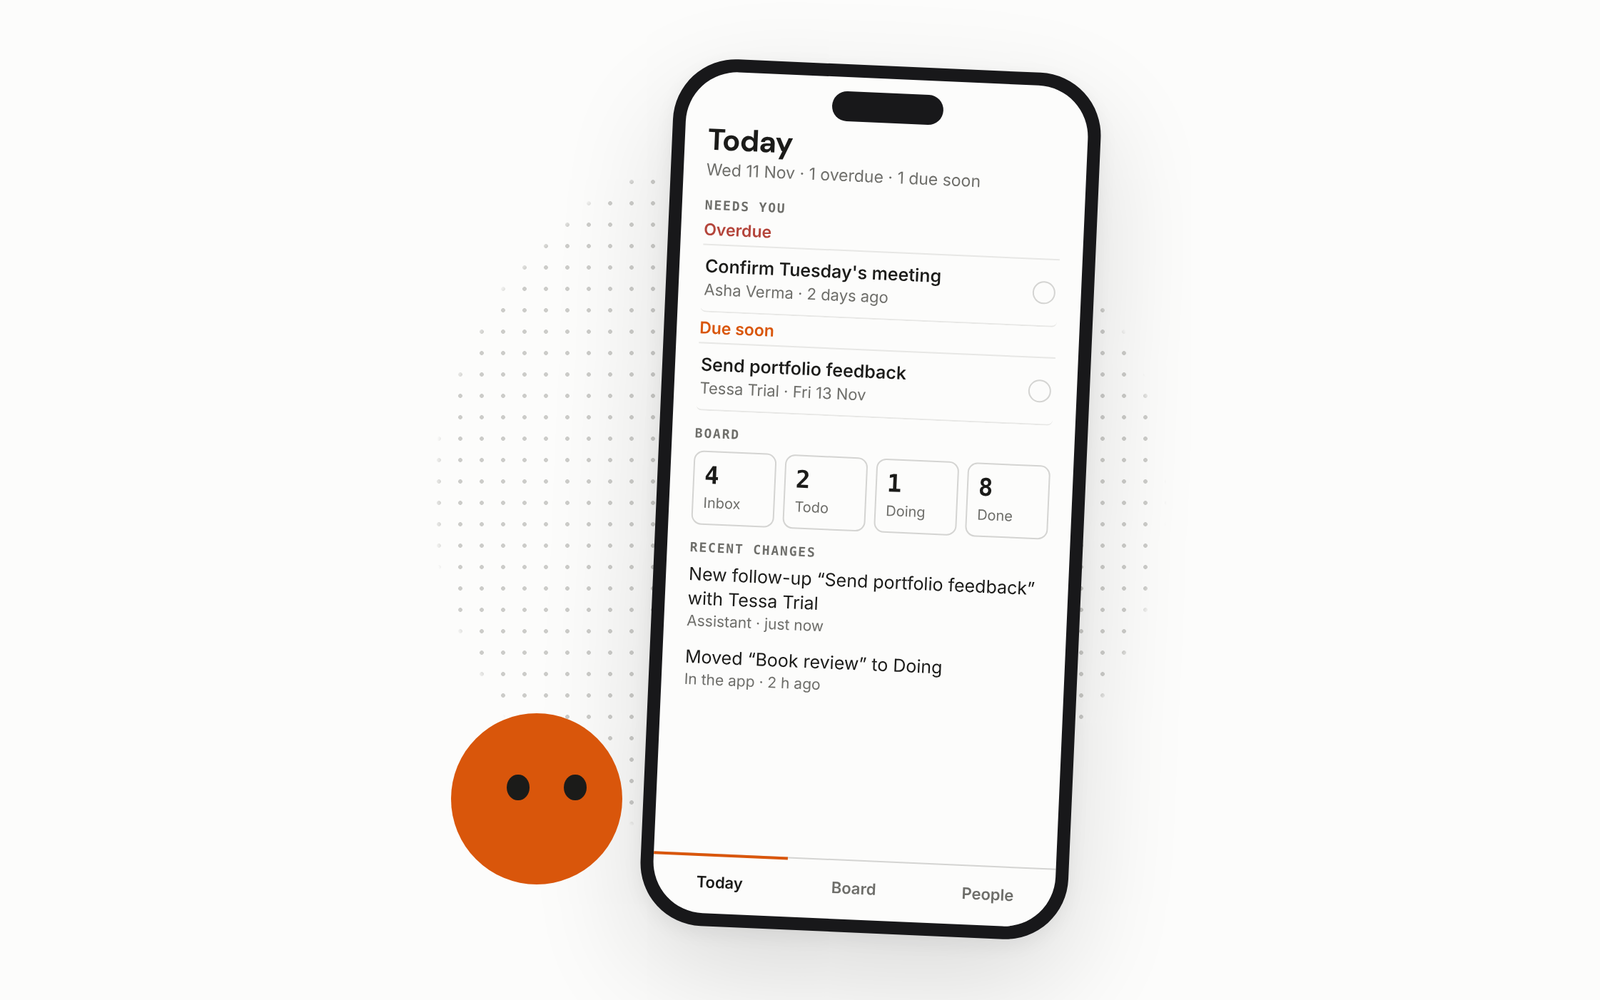
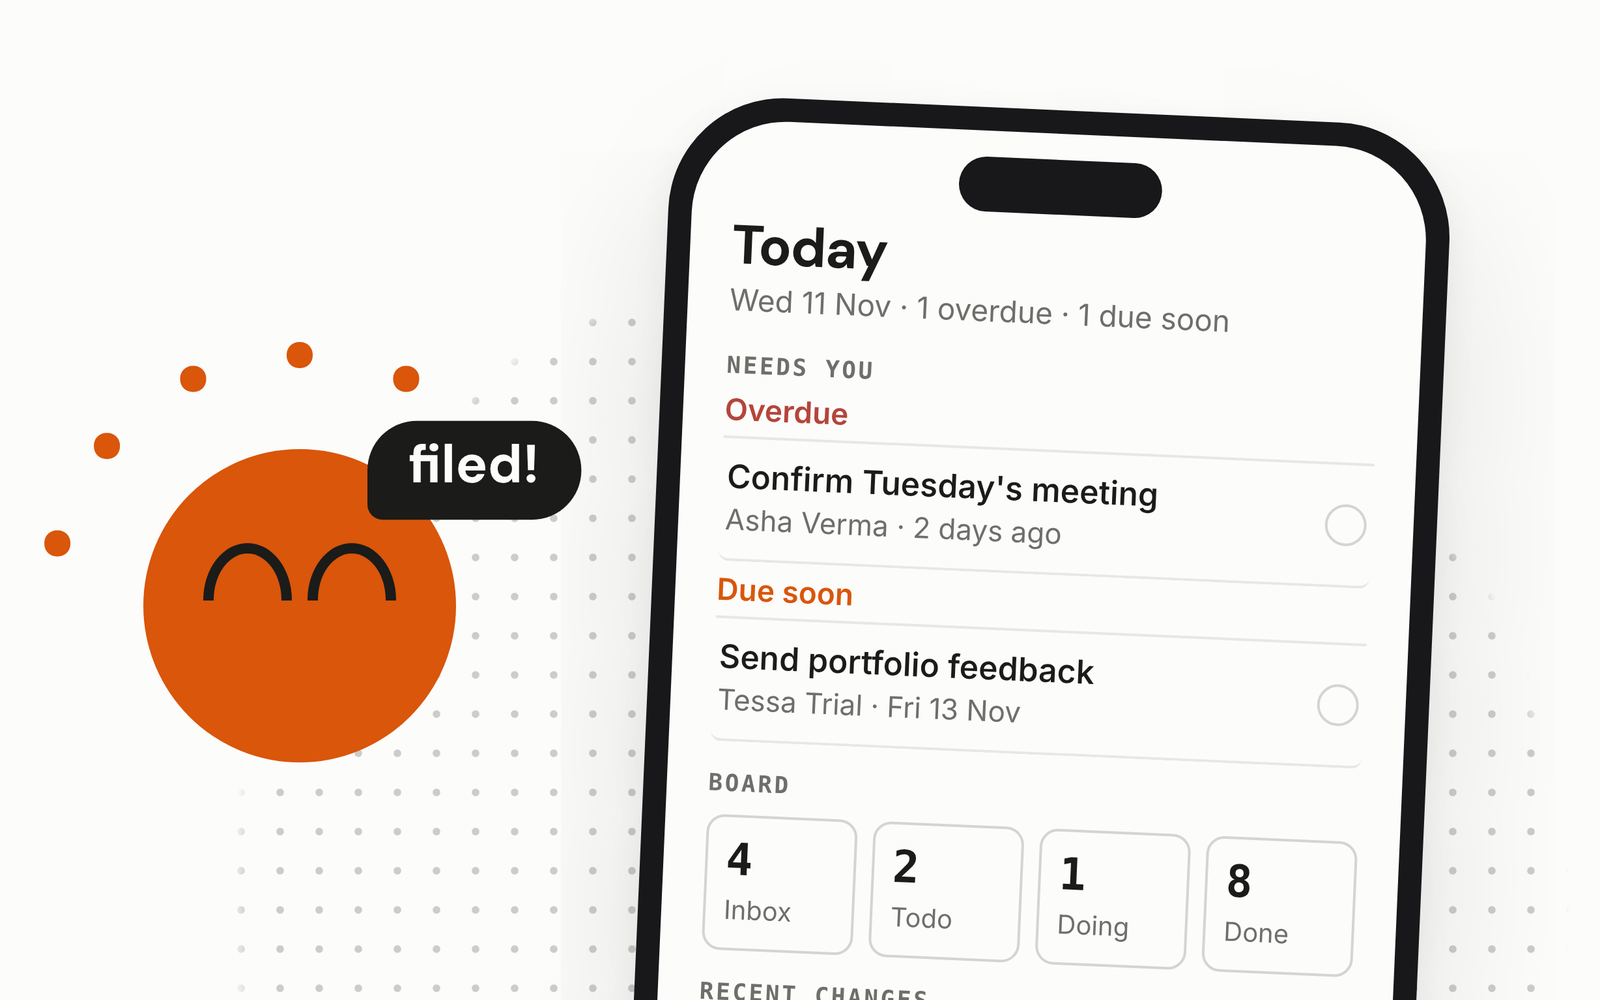
Personal OS card: bigger phone, happy Dot
Crop to the top of the phone so the Today screen fills the card, with
the phone running off the bottom edge. Dot moves up beside it in its
pleased state from the landing page (smiling eyes, sparks, "filed!").

Claude-Session: https://claude.ai/code/session_01FFKZzBupAxXPFnJoF9RmAL

diff --git a/side-projects.html b/side-projects.html
@@ -62,7 +62,7 @@
                     <span class="card__desc">A falling-block game where every block is a kolam loop, so the stack weaves into one rice-flour pattern</span>
                 </a>
                 <a class="card" href="https://personal-os-landing-eta.vercel.app/" target="_blank" rel="noopener">
-                    <img class="card__image" src="images/personal-os.png" alt="Dot, the orange Personal OS mascot, beside a phone showing the Today screen">
+                    <img class="card__image" src="images/personal-os.png" alt="Dot, the orange Personal OS mascot, looking pleased beside a phone showing the Today screen">
                     <span class="card__head">
                         <span class="card__title">Personal OS</span>
                         <span class="card__meta">2026</span>
